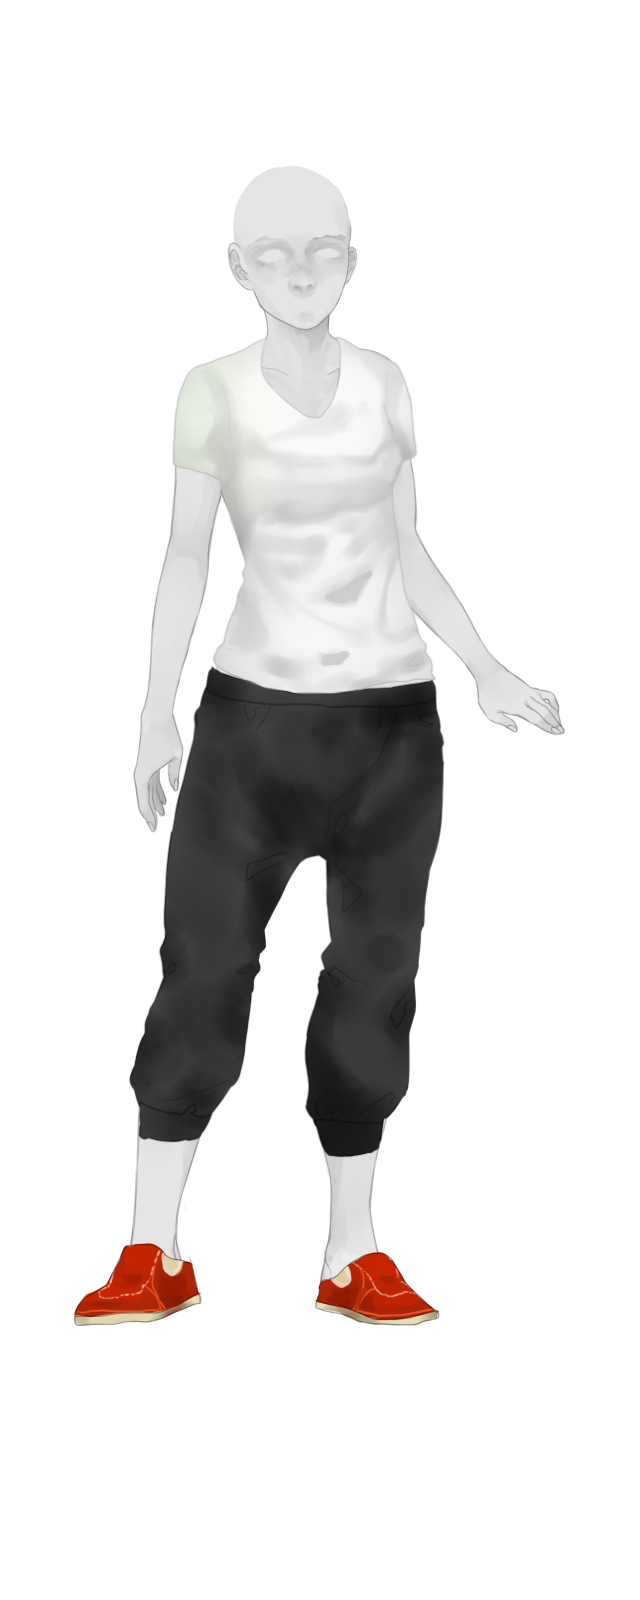
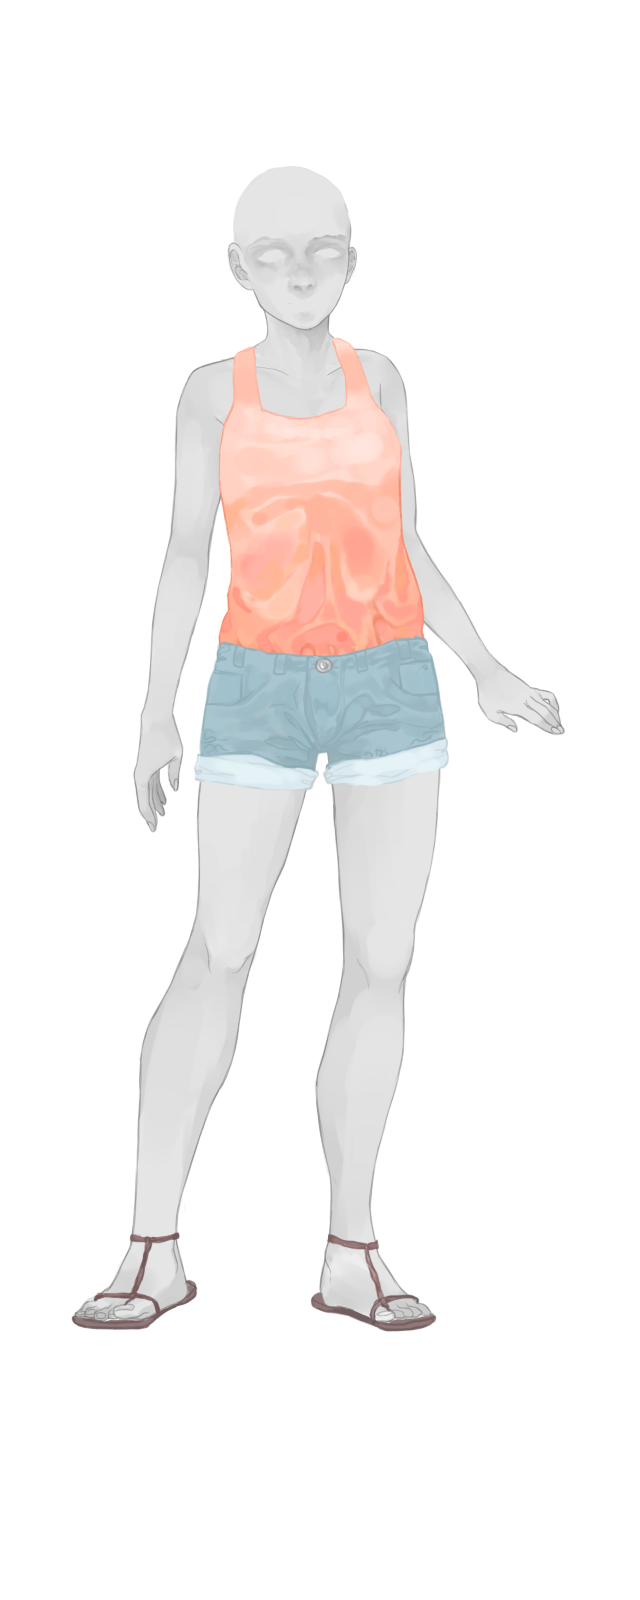
Images for dollmaker

diff --git a/css/se-stylesheet.css b/css/se-stylesheet.css
@@ -333,6 +333,7 @@
 		margin: 0px;
 		top: 100%;
 		right: 0%;
+		border-radius: 0%;
 
 		transform: translateY(-100%);
 		

diff --git a/profile/character_small_portrait.php b/profile/character_small_portrait.php
@@ -74,7 +74,7 @@ for($i = 1; $i < sizeof($sources); $i++)
 	
 	if($i == 5)//if we're doing the shirt, we resize it to fit the "mediumsprite"
 	{
-		$multiplier = 1.1;
+		$multiplier = 1.08;
 		$newWidth = $width * $multiplier;
 		$newHeight = $height * $multiplier;
 		
@@ -83,8 +83,8 @@ for($i = 1; $i < sizeof($sources); $i++)
 
 		if($sex == 0)
 		{
-			$translateX = -85;
-			$translateY = -18;
+			$translateX = -79;
+			$translateY = -17;
 		}
 		else
 		{

diff --git a/CHANGELOG.md b/CHANGELOG.md
@@ -1,6 +1,14 @@
 `Important: put more than 2 spaces at the end of a line if you want a line break`       
 `Two tabs should work`
 
+# Version 1.14.7 (Images for dollmaker)
+## Added
+- `_new_images_folder`
+    - added missing images for the dollmaker
+## Fixed
+- `character_small_portrait.php`
+    -small translation fix
+
 # Version 1.14.6 (Bug fixes)
 ## Added
 - `chapter0.php` `chapter1.php` `chapter2.php`
